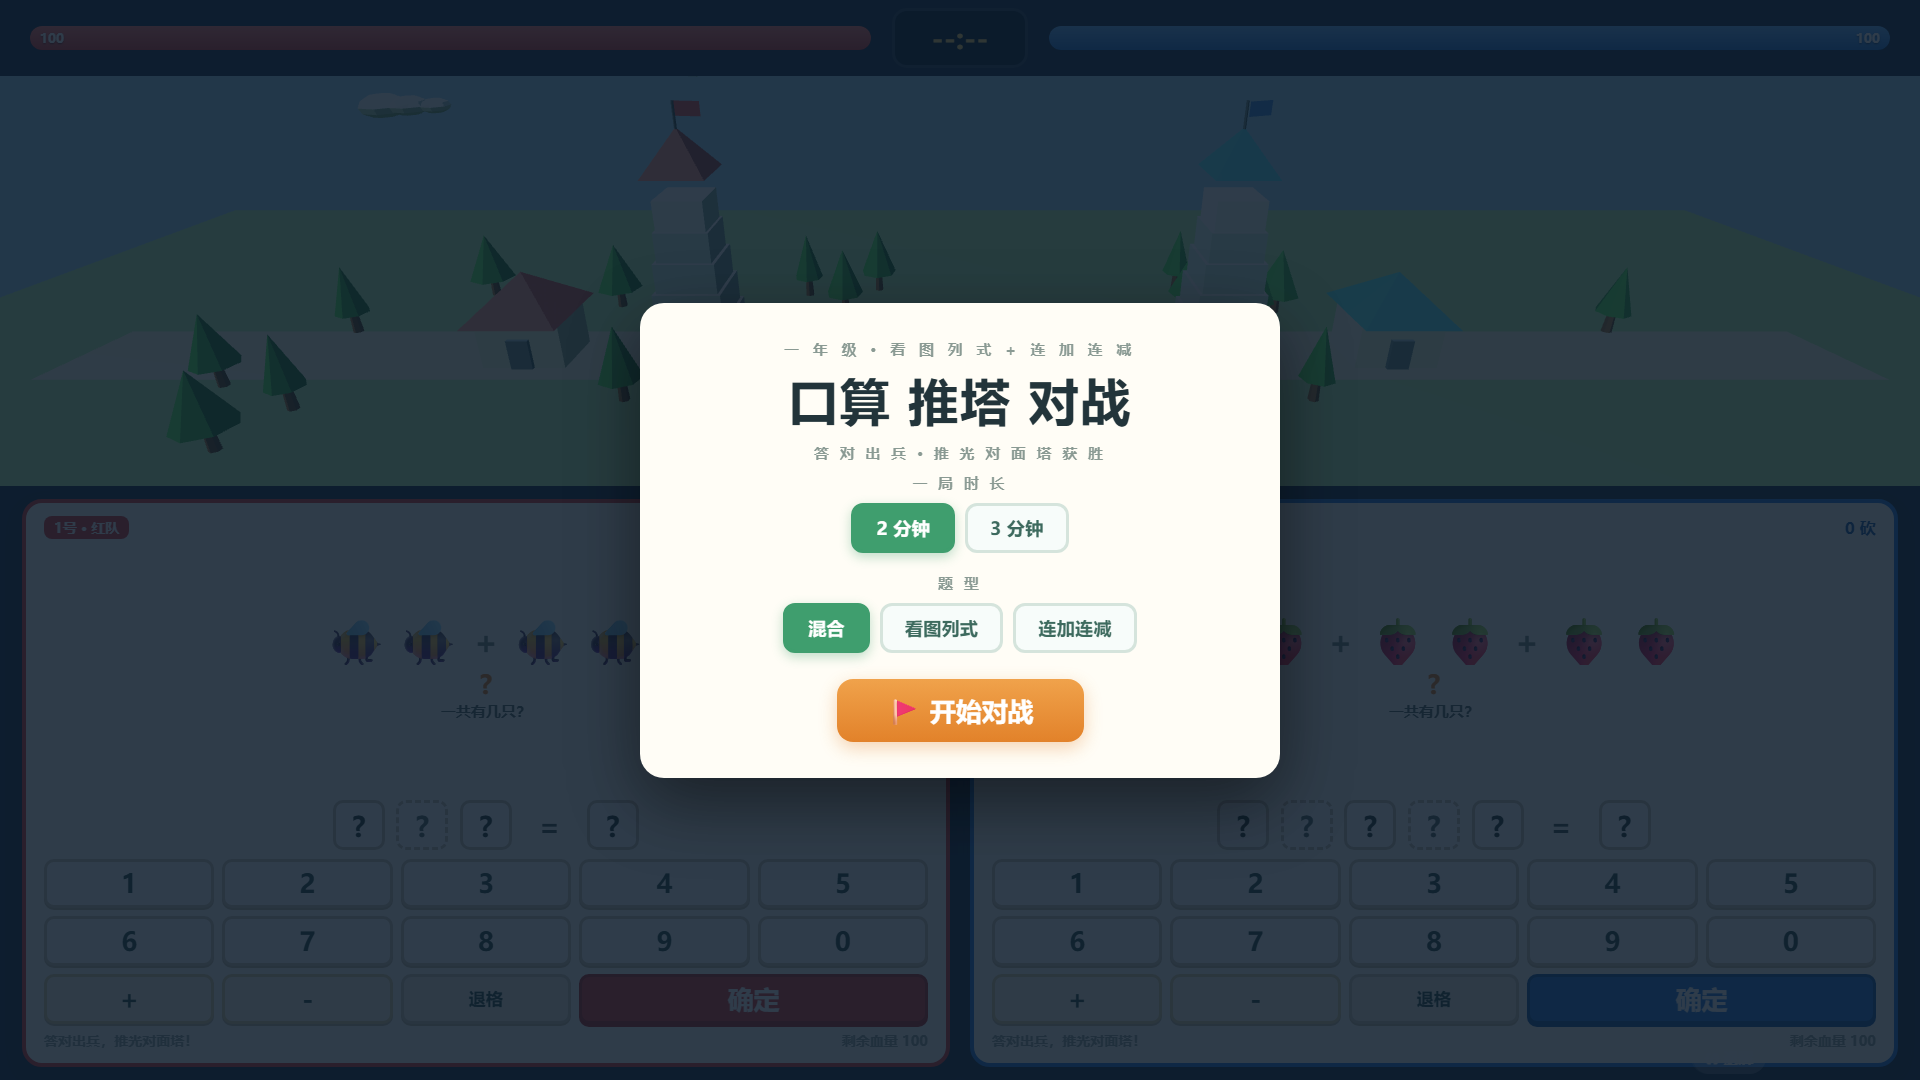
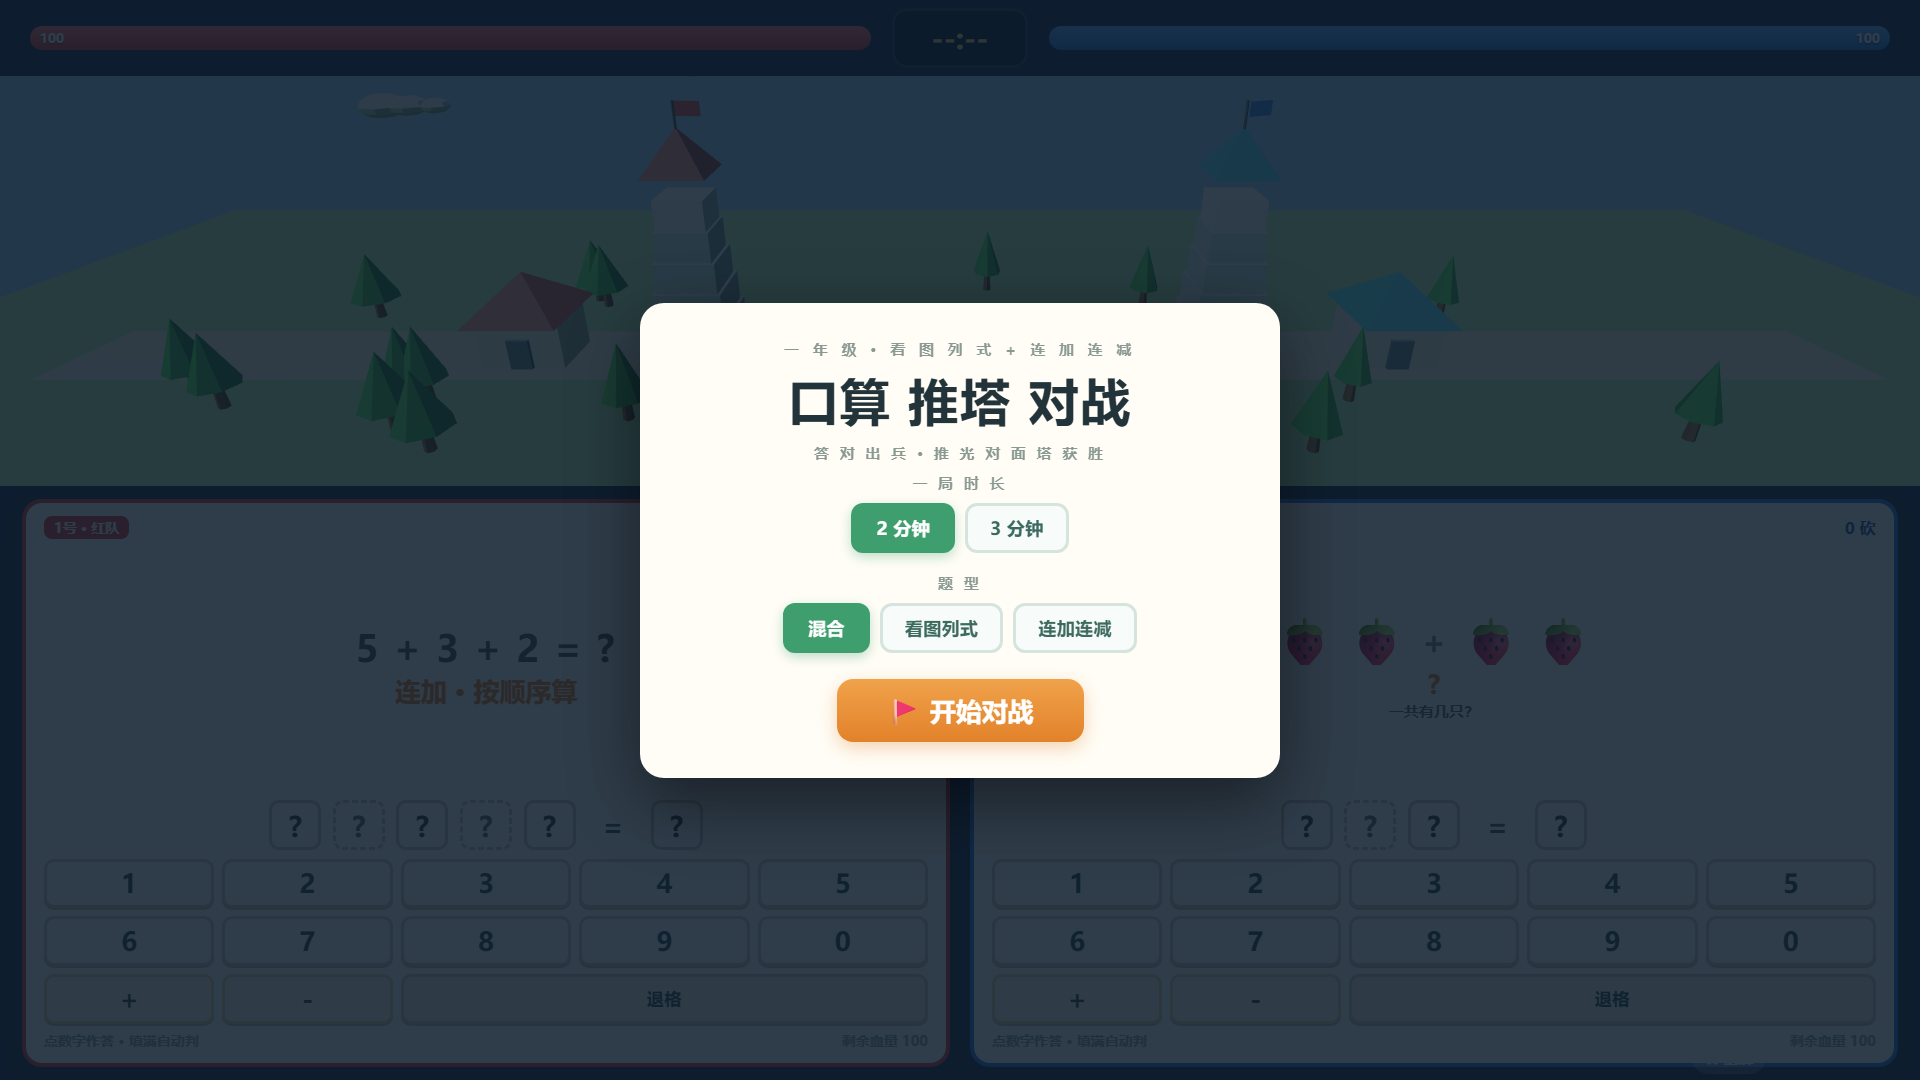
推塔对战：移除确定键(点数字填满即自动判定，与3D口算卡一致)，修复点确定把'ok'塞进答案槽导致判不出；面板提示语更新；回归+2断言钉死无确定键

diff --git a/小学一年级/推塔口算对战.html b/小学一年级/推塔口算对战.html
@@ -334,10 +334,9 @@ function renderPanel(ti){
       ${[6,7,8,9,0].map(v=>kb(ti,v)).join('')}
       <button class="op" data-k="+" data-t="${ti}">＋</button>
       <button class="op" data-k="-" data-t="${ti}">－</button>
-      <button class="del" data-k="back" data-t="${ti}">退格</button>
-      <button class="ok" data-k="ok" data-t="${ti}">确定</button>
+      <button class="del" data-k="back" data-t="${ti}" style="grid-column:span 3">退格</button>
     </div>
-    <div class="pfoot"><span>${t.msg||'答对出兵，推光对面塔！'}</span><span>剩余血量 ${S.hp[ti]}</span></div>`;
+    <div class="pfoot"><span>${t.msg||'点数字作答 · 填满自动判'}</span><span>剩余血量 ${S.hp[ti]}</span></div>`;
   p.querySelectorAll('button').forEach(b=>b.addEventListener('click',()=>pressKey(Number(b.dataset.t),b.dataset.k)));
   p.querySelectorAll('.slot,.opslot').forEach(s=>s.addEventListener('click',()=>{
     if(S.phase!=='run')return;
@@ -355,6 +354,7 @@ function firstEmpty(t){
 function pressKey(ti,k){
   if(S.phase!=='run')return;
   const t=S.teams[ti];if(!t.q||t.judging)return;
+  if(k==='ok'){return;}   /* 确定键已移除：填满自动判定，防御旧入口 */
   if(k==='back'){
     if(t.cur&&t.cur.startsWith('op')){t.ops[Number(t.cur[2])]=undefined;}
     else{const s=t.cur||firstEmpty(t);delete t.ans[s];t.cur=s;t.clicked=false;}

diff --git a/test_tuita.js b/test_tuita.js
@@ -184,7 +184,7 @@ __okT(!!S.teams[0].q && !!S.teams[1].q, '1 两队面板已备题');
 /* 3. 开局：run 状态、面板渲染、键盘按钮就绪 */
 T.startRound();
 __okT(S.phase === 'run' && S.hp[0] === 100 && S.hp[1] === 100, '3 开局双方满血');
-__okT($('panel0')._html.indexOf('确定') >= 0 && $('panel0')._html.indexOf('＋') >= 0, '3 面板键盘含运算符与确定');
+__okT($('panel0')._html.indexOf('确定') < 0 && $('panel0')._html.indexOf('＋') >= 0, '3 键盘含运算符且无确定键');
 
 /* 4. 答对 → solved+1、出兵、对面掉血 */
 {
@@ -224,6 +224,7 @@ __okT($('panel0')._html.indexOf('确定') >= 0 && $('panel0')._html.indexOf('＋
   const opCount0 = $('panel0').querySelectorAll('.opslot').length;
   __okT(opCount0 === 1, '6a 二元题只有 1 个运算符槽', String(opCount0));
   __okT($('panel0').querySelectorAll('.slot').length === 3, '6a 数字槽 3 个（含结果）');
+  __okT($('panel0')._html.indexOf('data-k="ok"') < 0, '6a 无确定键（点数字即判）');
   /* 标准：8-3=5（填满+运算符齐 → 自动判定） */
   T.pressKey(0, '-'); T.pressKey(0, 8); T.pressKey(0, 3); T.pressKey(0, 5);
   __okT(S.teams[0].solved === 2, '6 标准减法判对');
